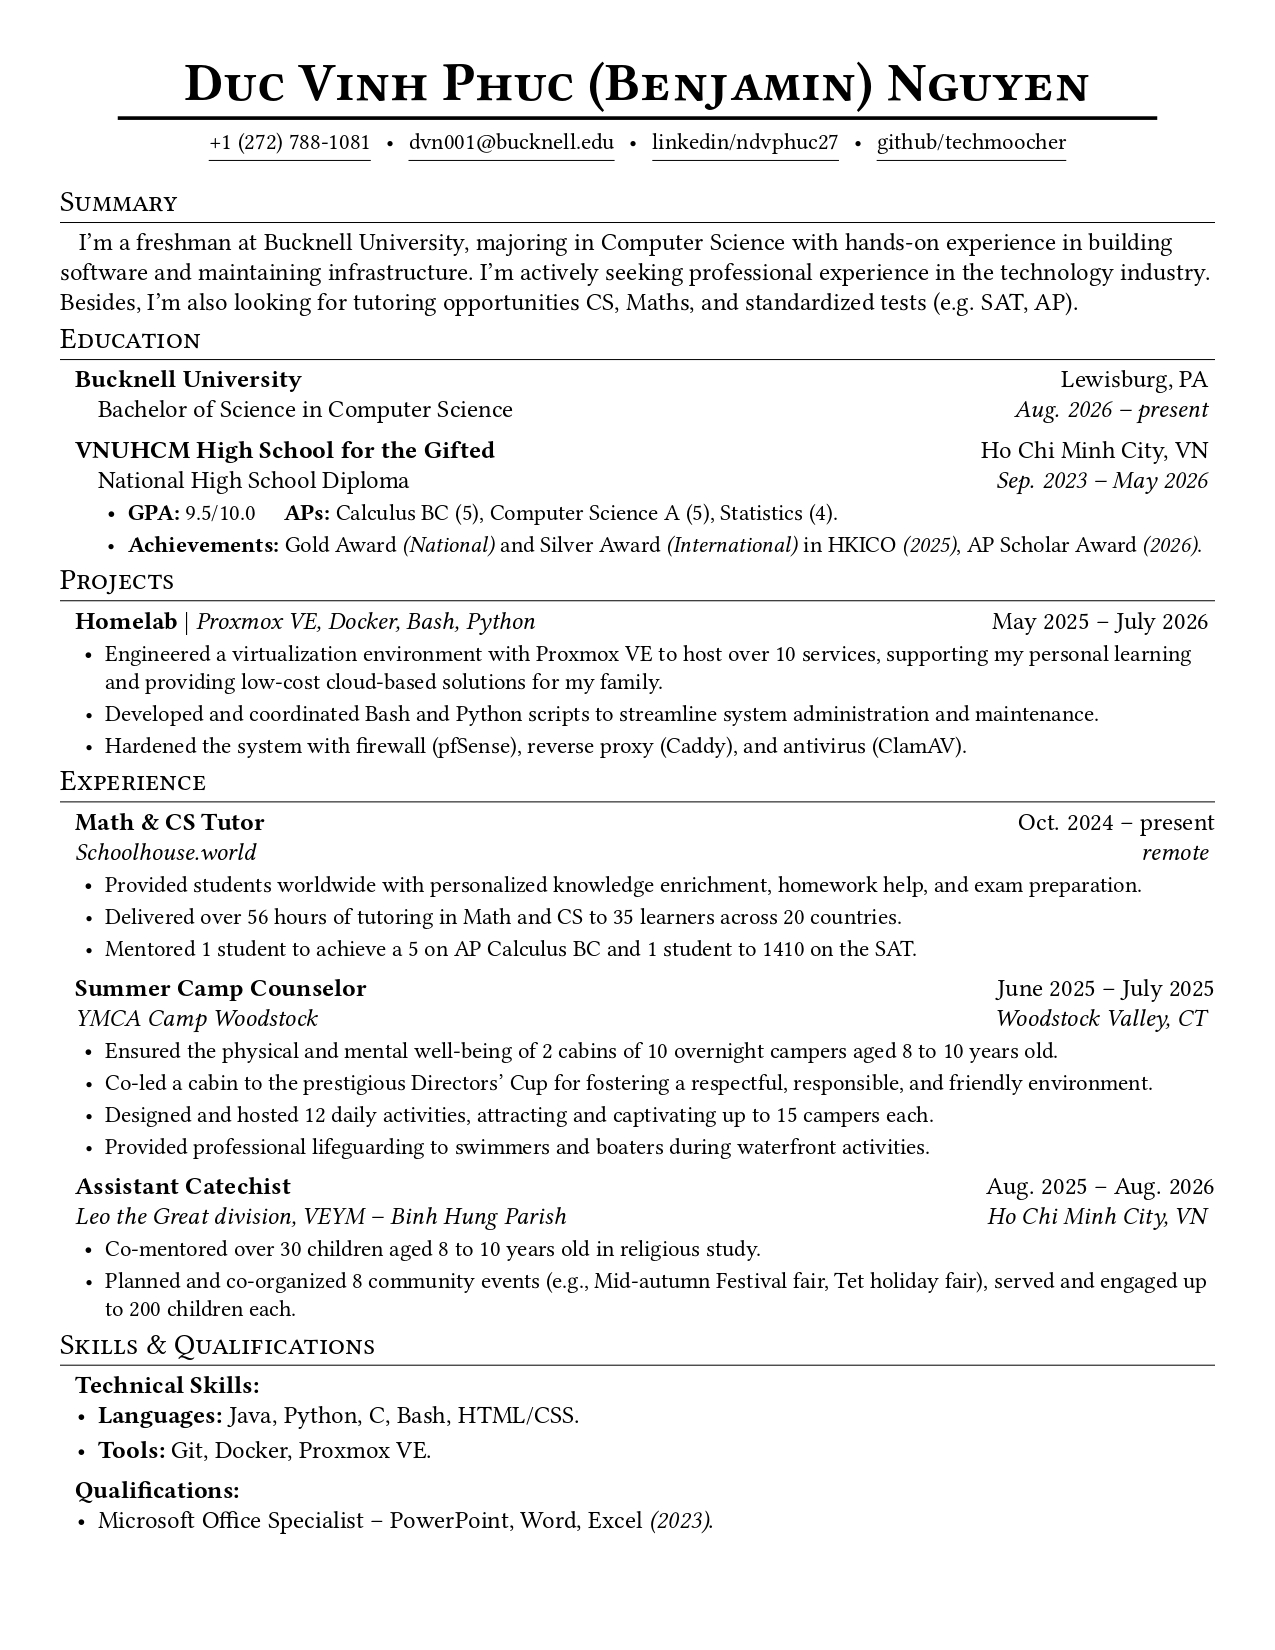
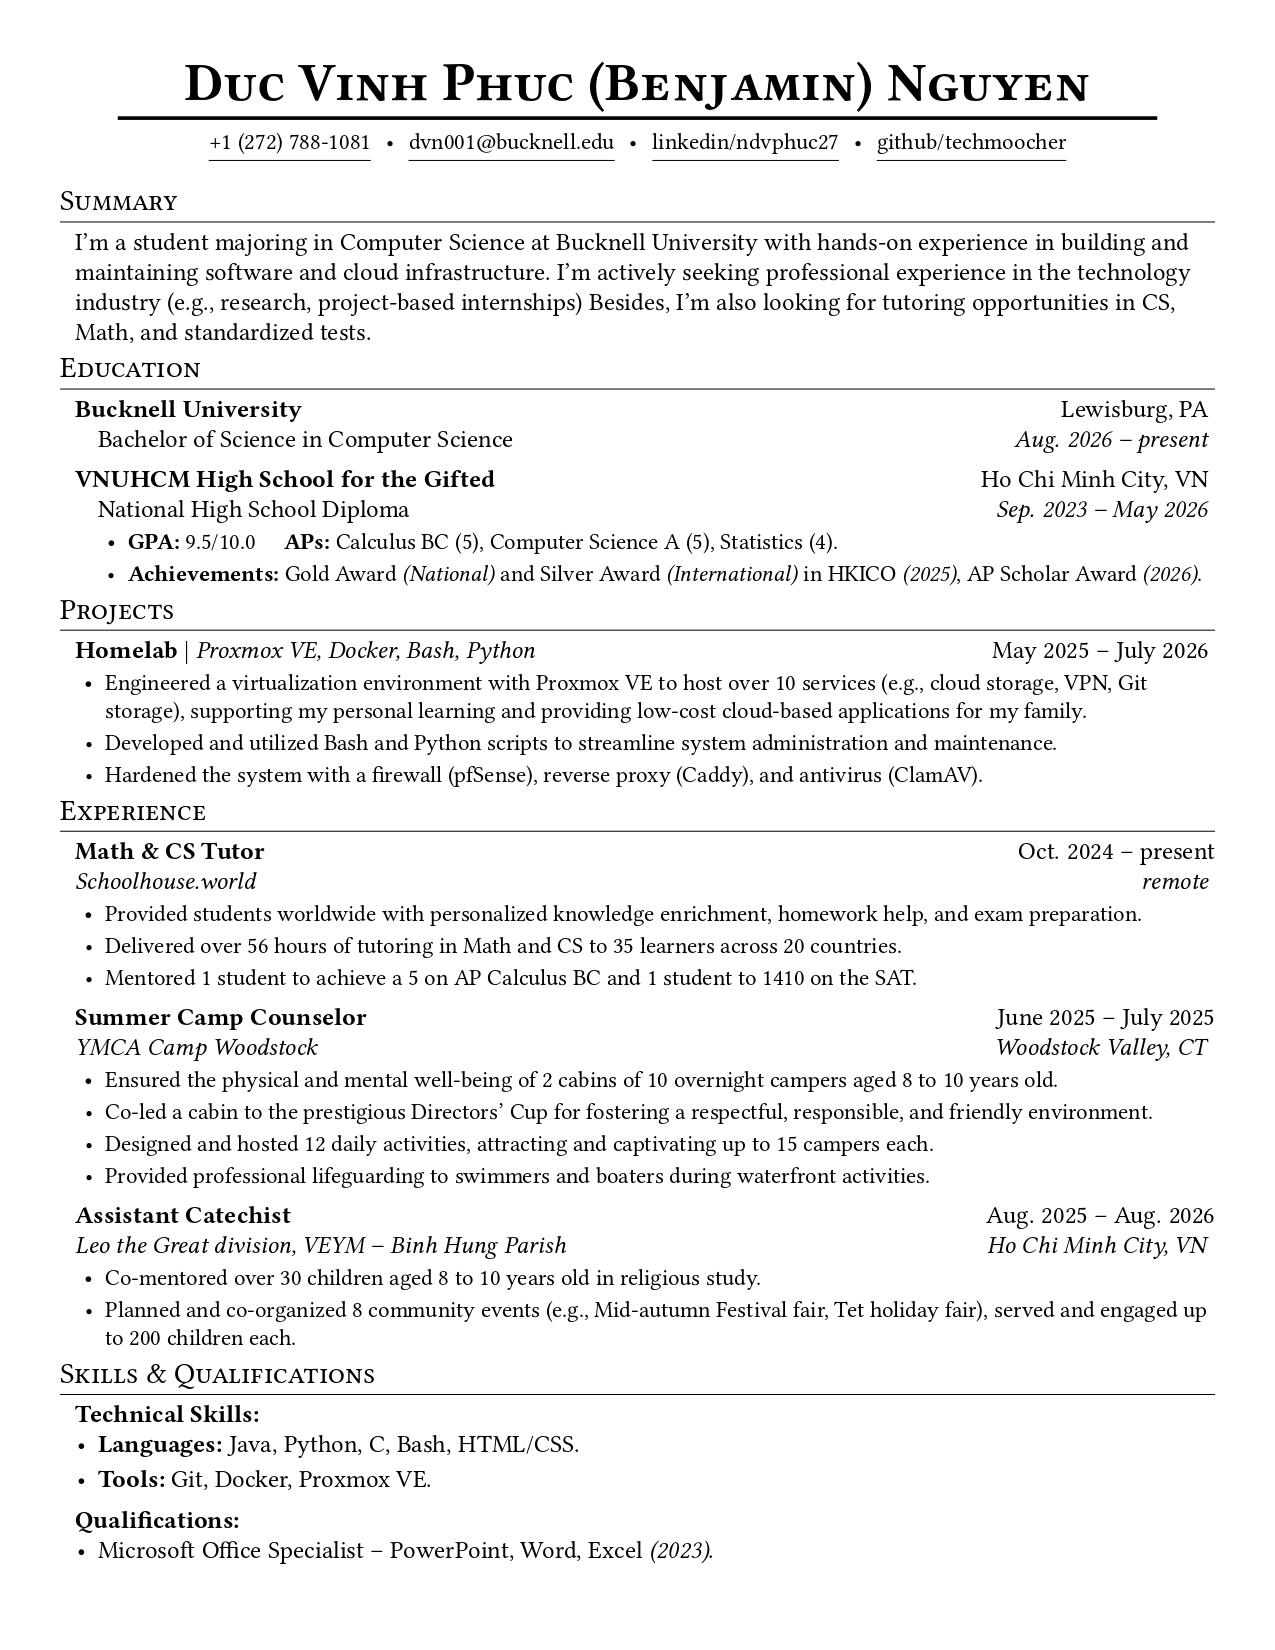
update

Changed region(s): [[0.0306, 0.1236, 0.9482, 0.9582], [0.4282, 0.8964, 0.5506, 0.9582]]

diff --git a/[RESUME]_Phuc-Benjamin-Nguyen.tex b/[RESUME]_Phuc-Benjamin-Nguyen.tex
@@ -1,7 +1,7 @@
 %%%%%%%%%%%%%%%%%%%%%%%%%%%%%%%%%%%%%%%%%%%%%
 % Resume in LaTeX (US Letter - 8.5x11 in.)  %
 % Author: Duc Vinh Phuc (Benjamin) Nguyen   %
-% Last update: 2026-08-11 (UTC)             %
+% Last update: 2026-08-23 (UTC)             %
 %%%%%%%%%%%%%%%%%%%%%%%%%%%%%%%%%%%%%%%%%%%%%
 
 \documentclass[letterpaper, 12pt]{article}
@@ -77,6 +77,10 @@
 \newcommand{\listItemHeading}[1]{
     \item
     \textbf{#1}
+}
+
+\newcommand{\listItemHeadingNormal}[1]{
+    \item #1
 }
 
 \newcommand{\listItemHeadingEducation}[2]{
@@ -176,10 +180,15 @@
 \vspace{-0.25em}
 %%% SUMMARY %%%
 \section{Summary}
-    \hspace{0.5em} I'm a freshman at Bucknell University, majoring in Computer Science\
-    with hands-on experience in building software and maintaining infrastructure.\
-    I'm actively seeking professional experience in the technology industry.\
-    Besides, I'm also looking for tutoring opportunities CS, Maths, and standardized tests (e.g. SAT, AP).
+    \begin{ListHeading}
+        \listItemHeadingNormal{
+        I'm a student majoring in Computer Science at Bucknell University\
+        with hands-on experience in building and maintaining software and cloud infrastructure.\
+        I'm actively seeking professional experience in the technology industry\
+        (e.g., research, project-based internships)\
+        Besides, I'm also looking for tutoring opportunities in CS, Math, and standardized tests.
+        }
+    \end{ListHeading}
 
 %%% EDUCATION %%%
 \section{Education}
@@ -226,11 +235,11 @@
             {github.com/techmoocher/homelab}
             \begin{ListContent}
                 \listItemContent
-                    {Engineered a virtualization environment with Proxmox VE to host over 10 services, supporting my personal learning and providing low-cost cloud-based solutions for my family.}
+                    {Engineered a virtualization environment with Proxmox VE to host over 10 services (e.g., cloud storage, VPN, Git storage), supporting my personal learning and providing low-cost cloud-based applications for my family.}
                 \listItemContent
-                    {Developed and coordinated Bash and Python scripts to streamline system administration and maintenance.}
+                    {Developed and utilized Bash and Python scripts to streamline system administration and maintenance.}
                 \listItemContent
-                    {Hardened the system with firewall (pfSense), reverse proxy (Caddy), and antivirus (ClamAV).}
+                    {Hardened the system with a firewall (pfSense), reverse proxy (Caddy), and antivirus (ClamAV).}
             \end{ListContent}
     \end{ListHeading}
 
